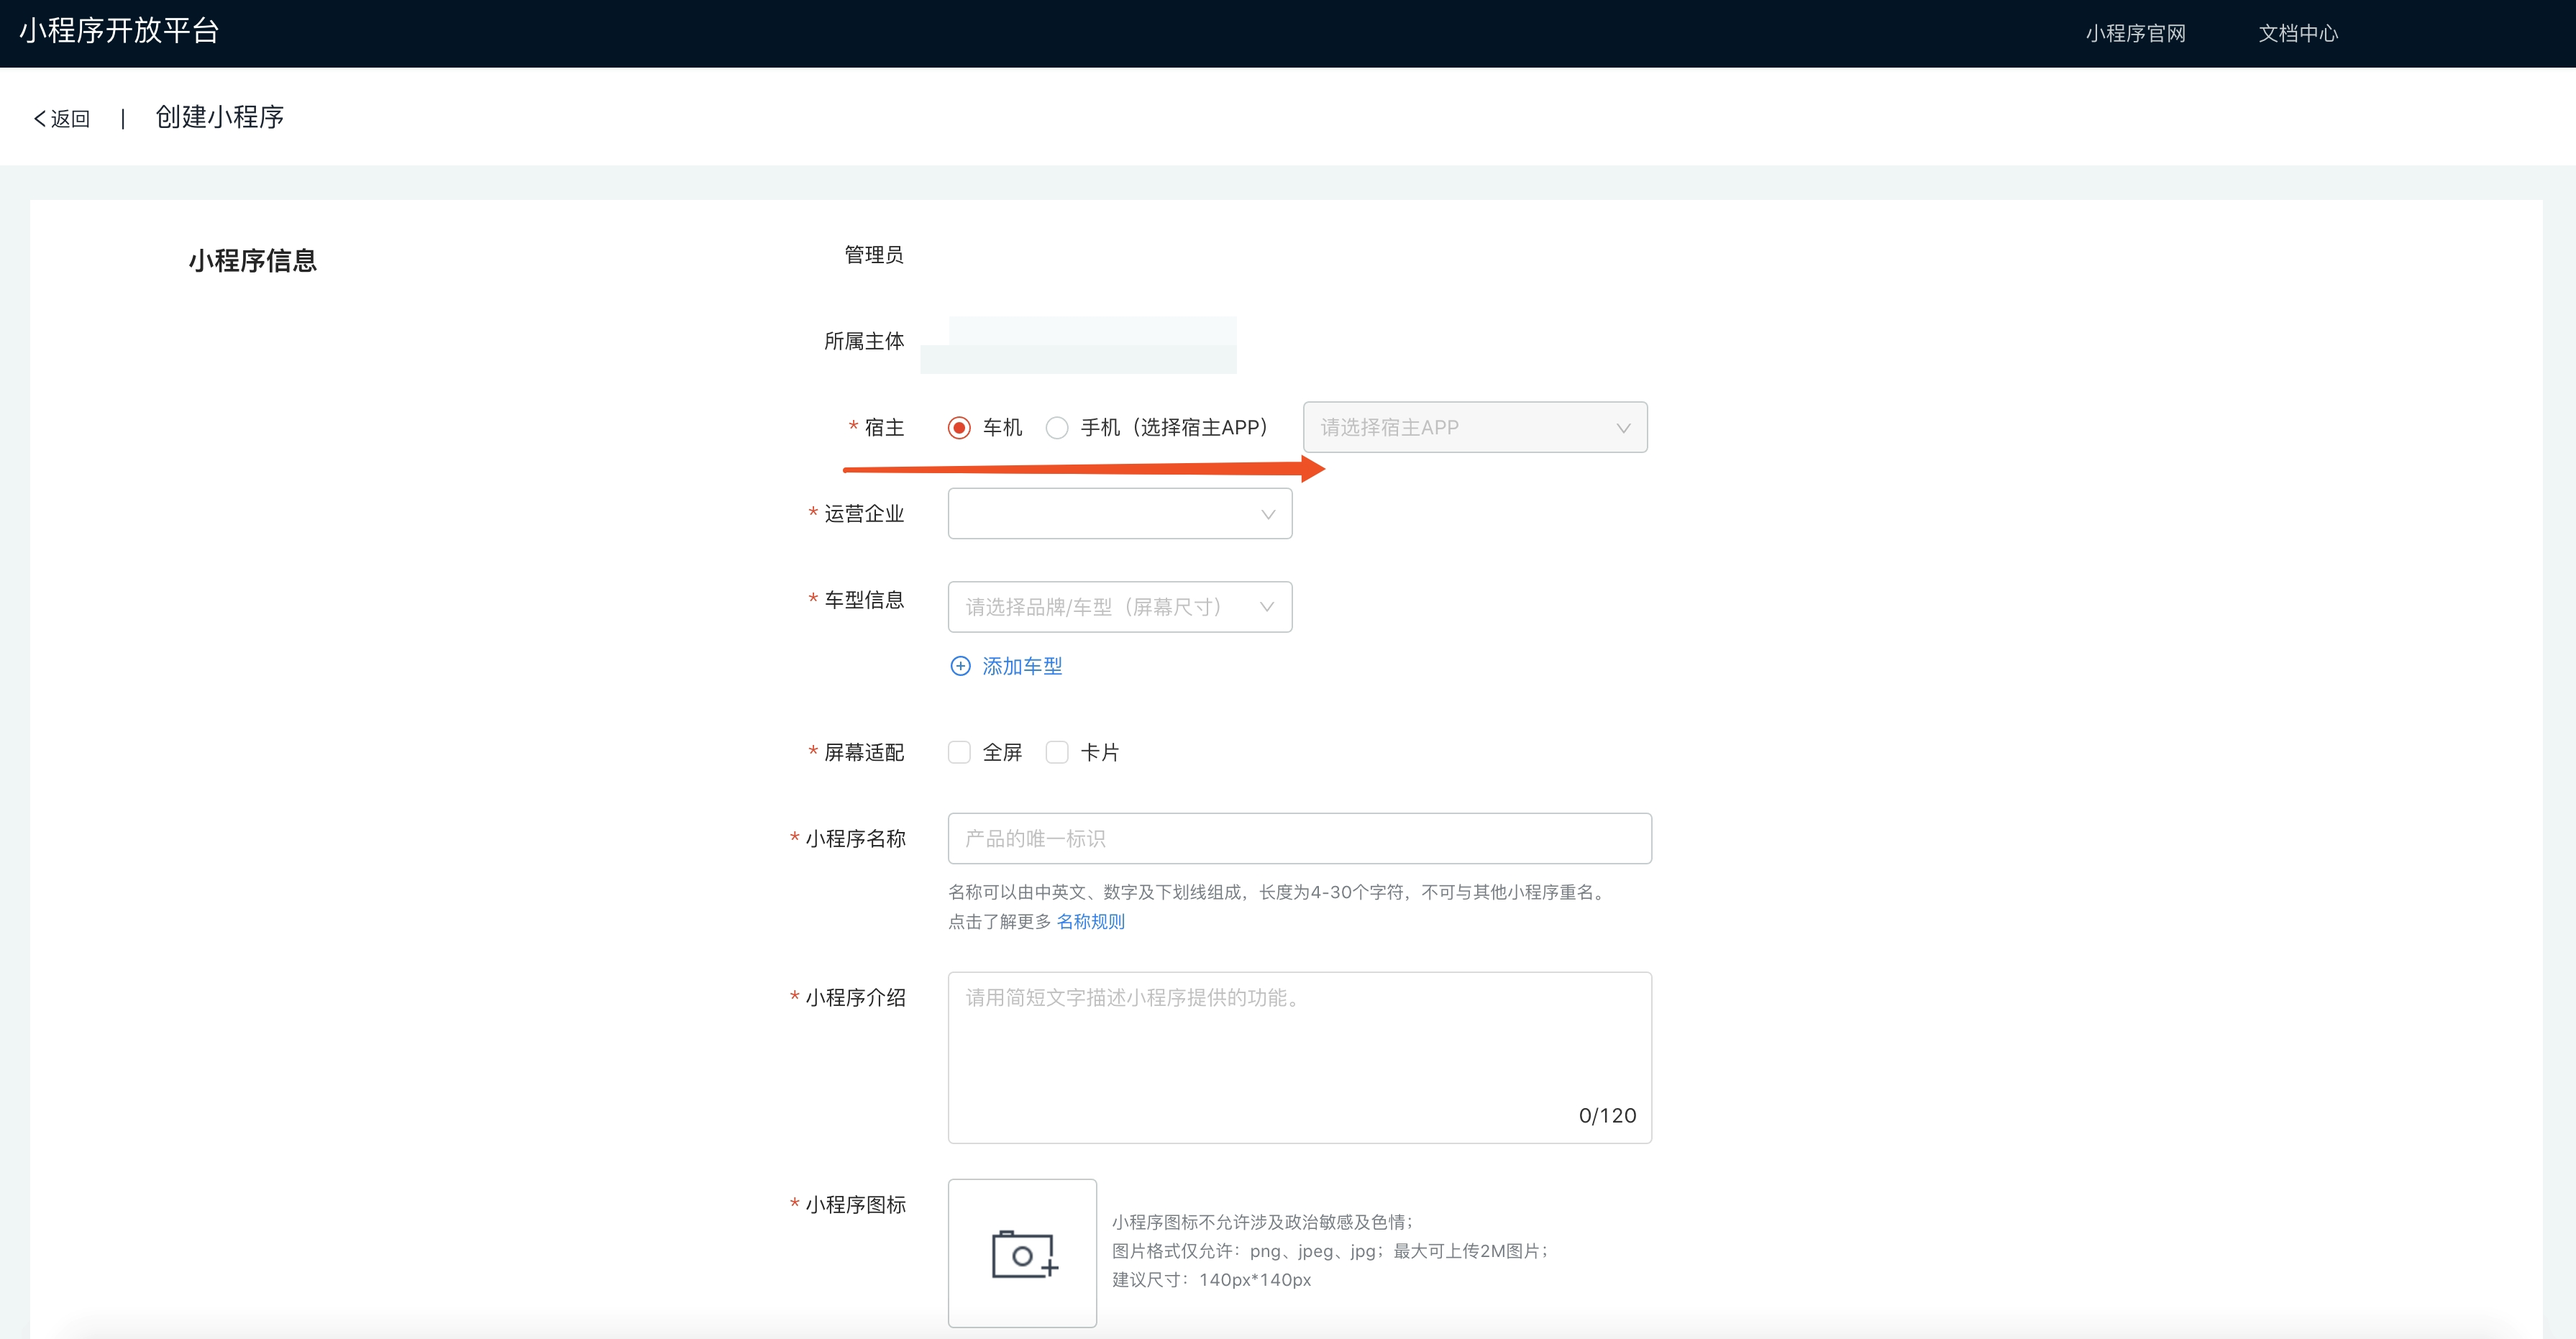
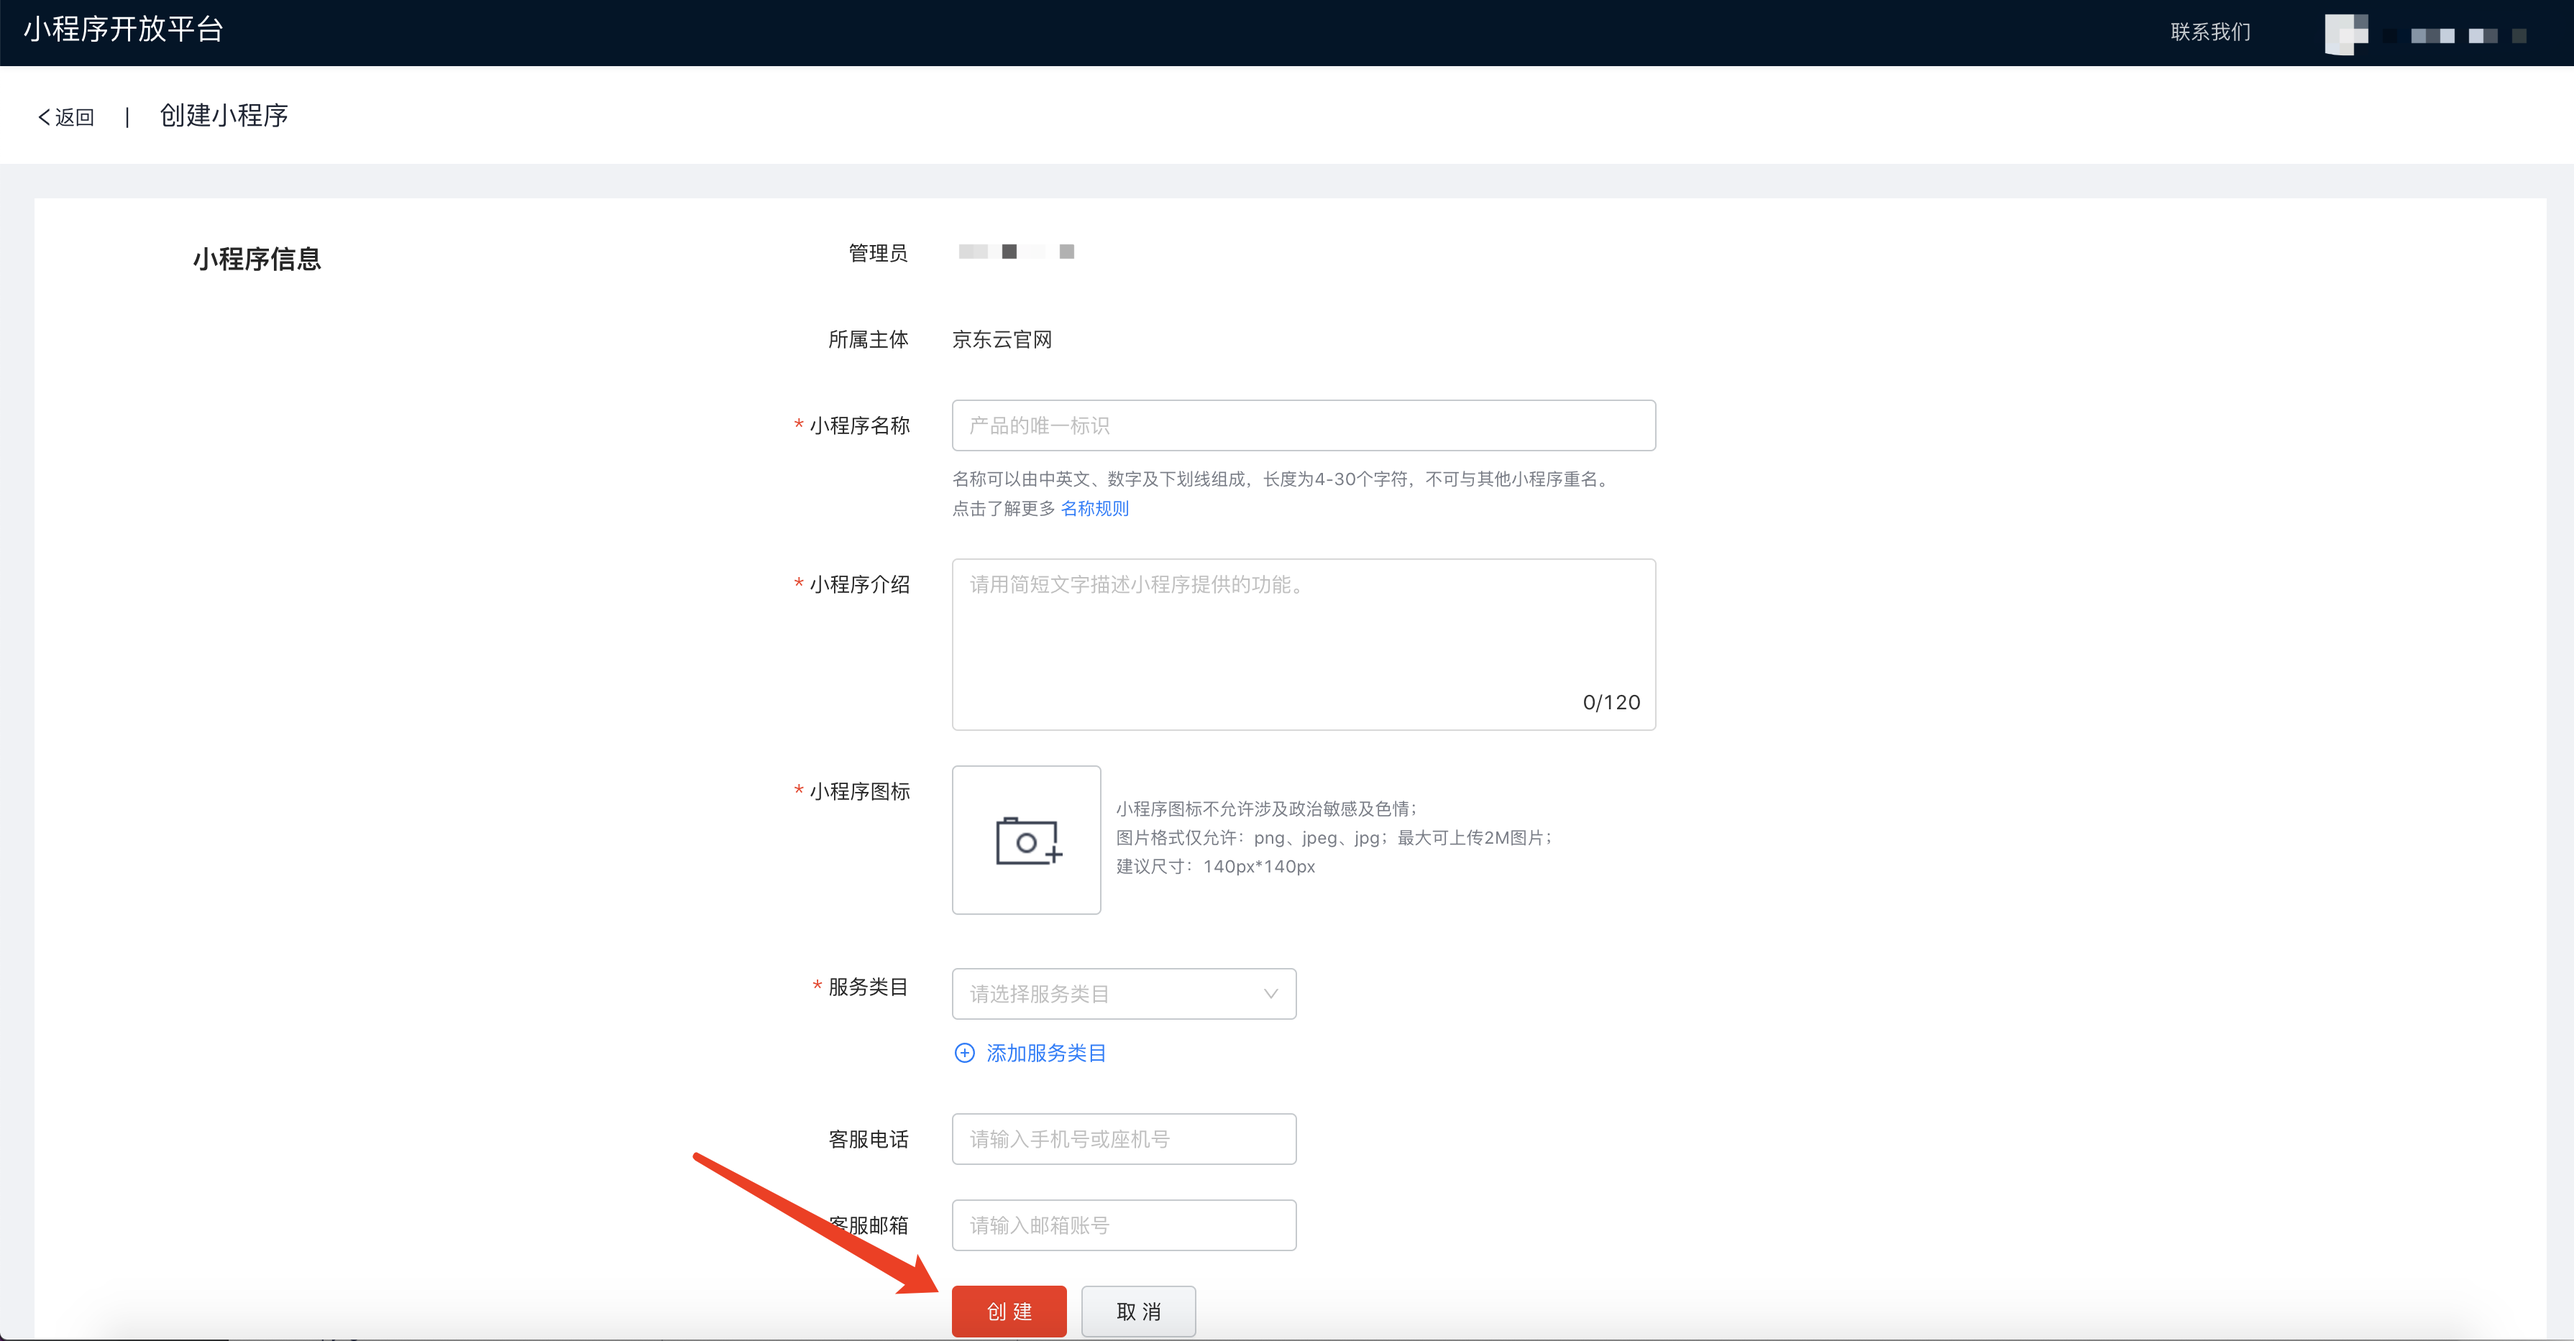
小程序管理后台操作流程文档，md文档去除手机小程序

diff --git a/documentation/IoT/IoT-Aep/Operation-Guide/Create-Mp.md b/documentation/IoT/IoT-Aep/Operation-Guide/Create-Mp.md
@@ -17,42 +17,39 @@
    进入“小程序管理平台”后，您可以管理小程序、下载小程序开发IDE工具、公版小程序运行App，小程序相关技术文档您也可在“小程序管理平台”上下载
    ![小程序列表](../../../../image/IoT/IoT-Aep/mp-list.jpeg)
 4. 创建小程序
+
    进入“小程序管理平台”后，页面的右上角或用户名下方，可见创建小程序按钮，您可以点击创建小程序，来新建属于自己的小程序
    ![创建小程序](../../../../image/IoT/IoT-Aep/mp-create.jpeg)
-   其中分为手机和车机两种：
-   ![小程序创建详细](../../../../image/IoT/IoT-Aep/mp-create1.jpeg)
    然后根据提示信息填写，提交即可：
-   ![小程序创建详细](../../../../image/IoT/IoT-Aep/mp-create2.jpeg)
+   ![小程序创建详细](../../../../image/IoT/IoT-Aep/mp-create1.jpeg)
 
 ## 管理小程序
 1. 开发管理
+
    您在已创建的小程序列表中可见 开发管理按钮
    ![小程序开发管理](../../../../image/IoT/IoT-Aep/mp-devManage.jpeg)
    开发管理可分为四部分：
    1. 下载 sdk、IDE工具以及京东小程序开发文档
-   进入开发管理页面后可见底部有运行 sdk下载、IDE工具下载 以及京东小程序开发文档
+   进入开发管理页面后可见底部有运行 sdk下载、IDE工具下载 以及京东小程序开发文档，目前运行SDK仅支持在1728*1440的Android屏端运行
    ![小程序开发管理详细](../../../../image/IoT/IoT-Aep/mp-devManage1.jpeg)
-   2. 根据要求生成代码包，上传代码包，并提交审核，然后联系对应的管理人员，管理人员
+   2. 根据要求生成代码包，上传代码包，并提交审核，然后联系对应的管理人员
    ![小程序开发管理详细](../../../../image/IoT/IoT-Aep/mp-devManage2.jpeg)
    3. 待管理人员审核通过后，即可提交发布，小程序发布及上线
    ![小程序开发管理详细](../../../../image/IoT/IoT-Aep/mp-devManage3.jpeg)
    4. 最后如果您已上线小程序的需要下线，点击下线即可，下线需要通过管理人员的审核，审核通过便下线成功
    ![小程序开发管理详细](../../../../image/IoT/IoT-Aep/mp-devManage6.jpeg)
-2. 成员管理
-   您可以为您的小程序添加管理成员
-   ![小程序成员管理](../../../../image/IoT/IoT-Aep/mp-memberManage.jpeg)
-   需要填写被添加成员的邮箱，操作成功后，需要被添加成员在收到的小程序邮件中进行认证，认证完成便可成为您的小程序管理员
-   ![小程序成员管理详细](../../../../image/IoT/IoT-Aep/mp-memberManage1.jpeg)
 
-3. 数据统计
-   在您的小程序上线后，您可以在数据统计页面关于您的小程序的相关统计数据，为您提供分析
+2. 数据统计
+
+   在您的小程序上线后，您可以在数据统计页面查看您的小程序的相关统计数据，为您提供分析
    1. 基础数据
       ![小程序数据统计-基础数据](../../../../image/IoT/IoT-Aep/mp-dataStatistics1.jpeg)
    2. 用户画像
       ![小程序数据统计-基础数据](../../../../image/IoT/IoT-Aep/mp-dataStatistics2.jpeg)
    3. 留存分析
       ![小程序数据统计-基础数据](../../../../image/IoT/IoT-Aep/mp-dataStatistics3.jpeg)
-4. 设置
+3. 设置
+
    小程序创建之后，您还可以其进行设置修改
    1. 基础设置
       ![小程序设置-基础设置](../../../../image/IoT/IoT-Aep/mp-settingBase.jpeg)
